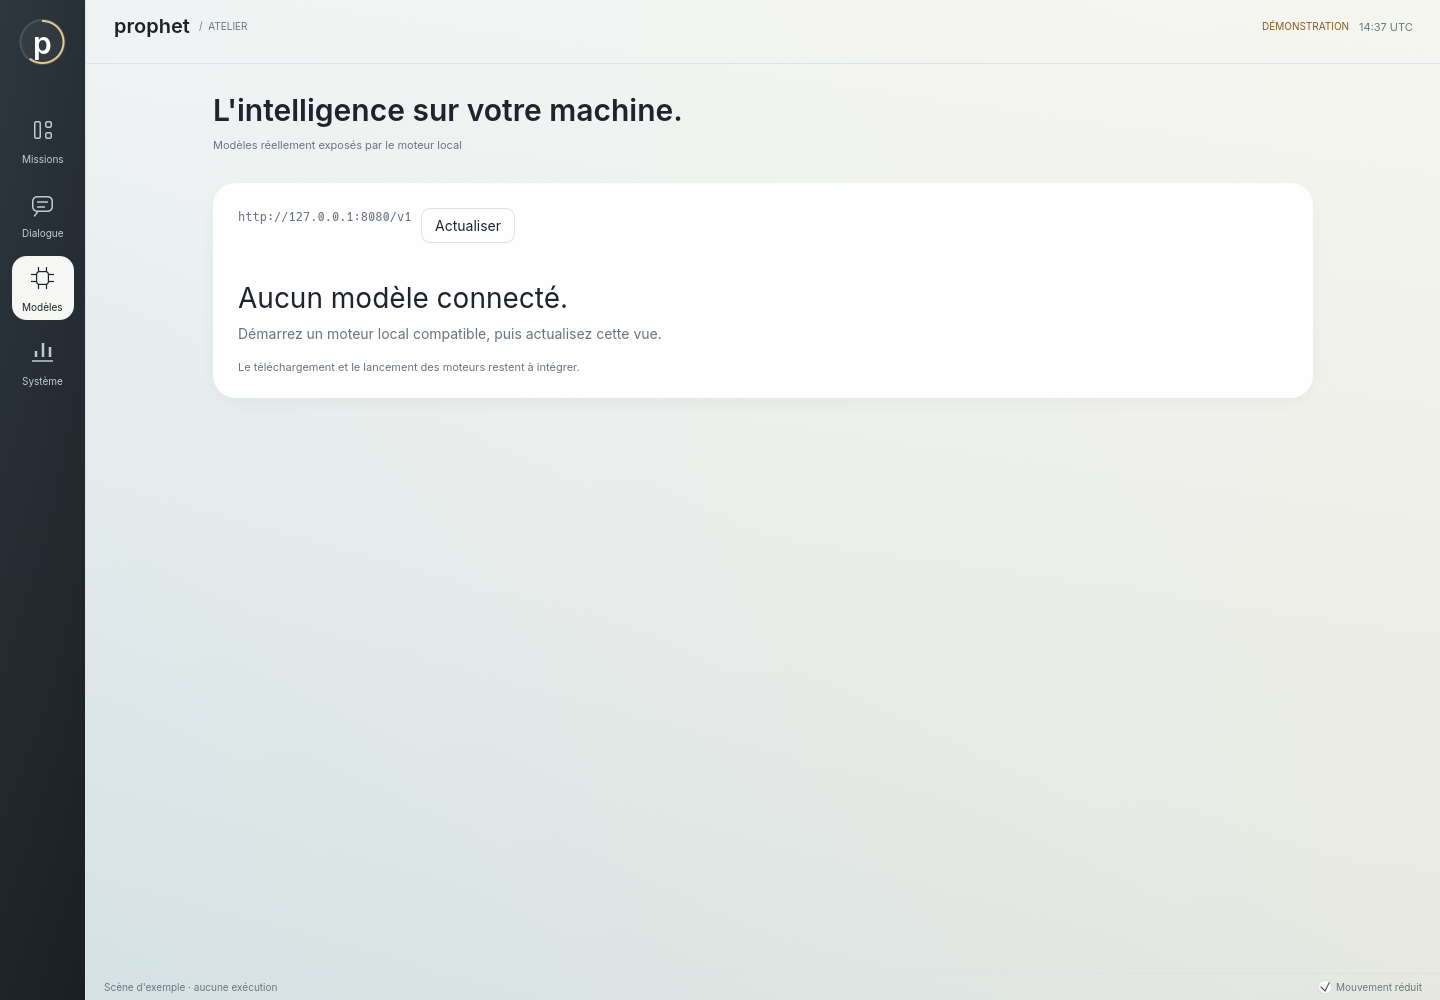
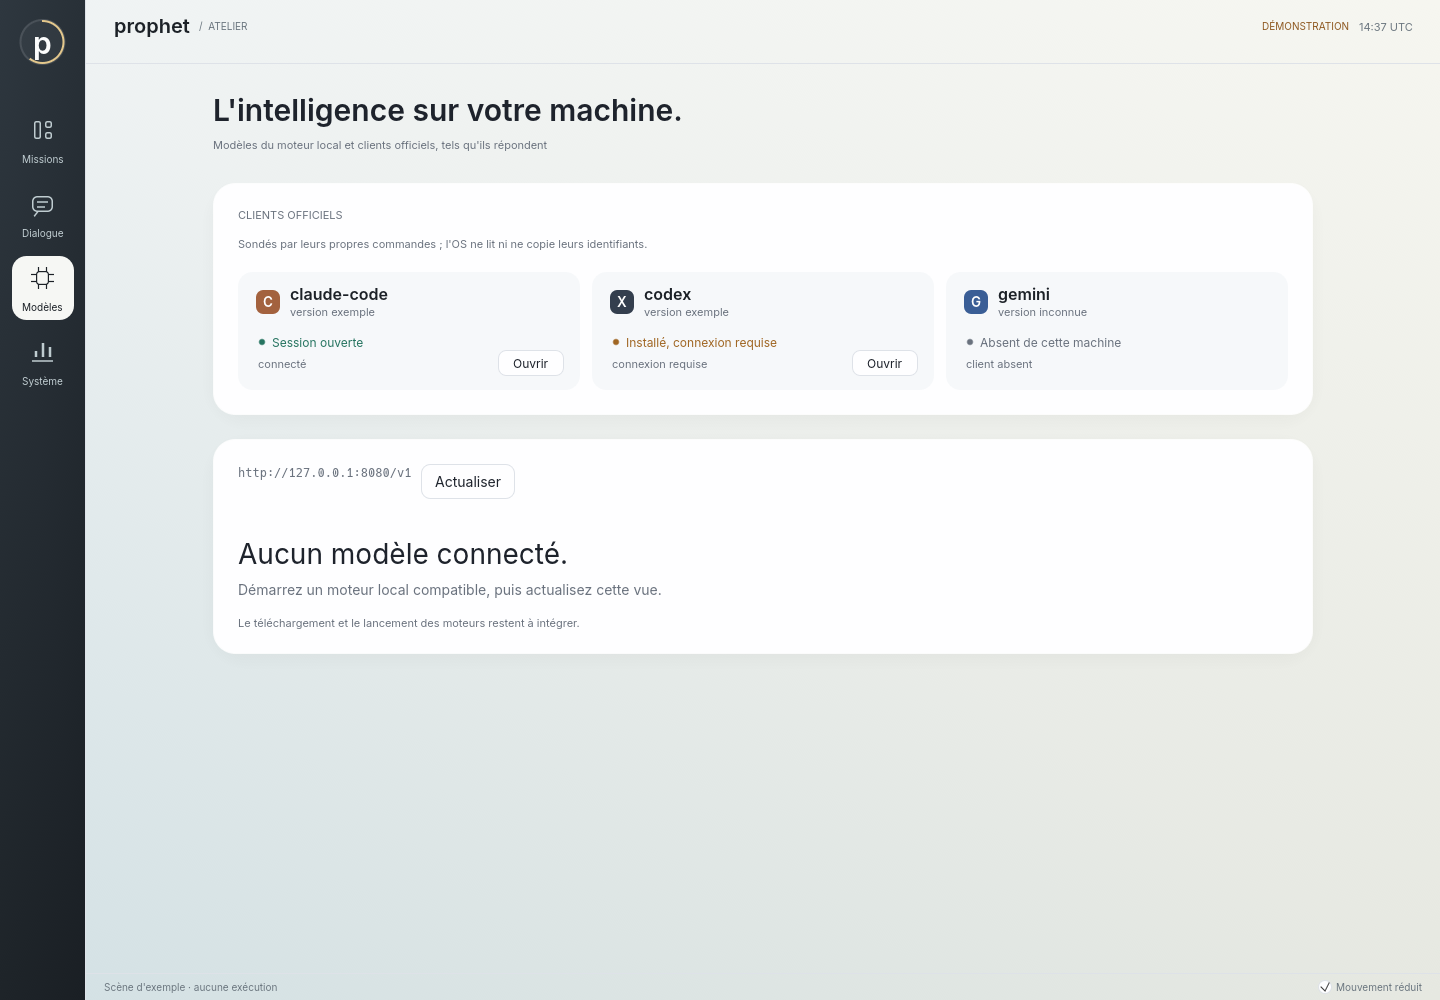
surface: les clients officiels sur la page Modèles
La page ne parlait que du moteur local. Elle sonde maintenant Claude Code, Codex et Gemini
par leurs propres commandes, comme `prophet provider ls`, et montre pour chacun sa version,
l'état de sa session et un bouton qui l'ouvre par le lanceur du bureau ; l'OS ne lit ni ne
copie leurs identifiants. Une scène de démonstration reçoit des cartes d'exemple, jamais une
vraie sonde.

Claude-Session: https://claude.ai/code/session_012JqexkdMtmijXULYm2y2Eu

diff --git a/crates/surface/src/supervision.rs b/crates/surface/src/supervision.rs
@@ -761,17 +761,145 @@ fn conversation(ui: &mut egui::Ui, atelier: &mut Atelier) {
     });
 }
 
+/// Lance une application du bureau par le lanceur de la session, s'il est installé.
+fn ouvrir_application(app: &str) {
+    let Some(launcher) = std::env::var_os("PATH").and_then(|path| {
+        std::env::split_paths(&path)
+            .map(|dir| dir.join("prophet-ouvrir"))
+            .find(|candidate| candidate.is_file())
+    }) else {
+        return;
+    };
+    let _ = std::process::Command::new(launcher)
+        .arg(app)
+        .stdin(std::process::Stdio::null())
+        .stdout(std::process::Stdio::null())
+        .stderr(std::process::Stdio::null())
+        .spawn();
+}
+
+fn clients_officiels(ui: &mut egui::Ui, atelier: &Atelier) {
+    petit(ui, "CLIENTS OFFICIELS");
+    ui.add_space(6.0);
+    petit(
+        ui,
+        "Sondés par leurs propres commandes ; l'OS ne lit ni ne copie leurs identifiants.",
+    );
+    ui.add_space(12.0);
+    if atelier.clients.is_empty() {
+        ui.horizontal(|ui| {
+            ui.spinner();
+            petit(ui, "Sonde des clients en cours…");
+        });
+        return;
+    }
+    let width = ui.available_width();
+    let gap = 12.0;
+    let tile = ((width - 2.0 * gap) / 3.0).max(150.0);
+    ui.horizontal(|ui| {
+        ui.spacing_mut().item_spacing.x = gap;
+        for card in &atelier.clients {
+            let (rect, _) = ui.allocate_exact_size(vec2(tile, 118.0), egui::Sense::hover());
+            let p = ui.painter();
+            p.rect_filled(rect, 14, crate::instruments::TUILE);
+            crate::instruments::monogramme(p, rect.min + vec2(30.0, 30.0), &card.driver, 24.0);
+            p.text(
+                rect.min + vec2(52.0, 22.0),
+                Align2::LEFT_CENTER,
+                &card.driver,
+                FontId::new(16.0, egui::FontFamily::Name("Inter600".into())),
+                crate::instruments::ENCRE,
+            );
+            p.text(
+                rect.min + vec2(52.0, 40.0),
+                Align2::LEFT_CENTER,
+                card.version
+                    .as_deref()
+                    .map_or_else(|| "version inconnue".to_owned(), |v| format!("version {v}")),
+                FontId::proportional(11.0),
+                DISCRET,
+            );
+            let (dot, label) = if card.connected {
+                (VERT, "Session ouverte")
+            } else if card.present {
+                (AMBRE, "Installé, connexion requise")
+            } else {
+                (DISCRET, "Absent de cette machine")
+            };
+            p.circle_filled(rect.min + vec2(24.0, 70.0), 3.0, dot);
+            p.text(
+                rect.min + vec2(34.0, 70.0),
+                Align2::LEFT_CENTER,
+                label,
+                FontId::proportional(12.0),
+                dot,
+            );
+            p.text(
+                rect.min + vec2(20.0, 92.0),
+                Align2::LEFT_CENTER,
+                &card.connection,
+                FontId::proportional(11.0),
+                DISCRET,
+            );
+            if card.present && matches!(card.driver.as_str(), "claude-code" | "codex") {
+                let button = egui::Rect::from_min_size(
+                    pos2(rect.right() - 82.0, rect.bottom() - 40.0),
+                    vec2(66.0, 26.0),
+                );
+                let response = ui.interact(
+                    button,
+                    egui::Id::new(format!("client-open-{}", card.driver)),
+                    egui::Sense::click(),
+                );
+                let p = ui.painter();
+                p.rect_filled(
+                    button,
+                    8,
+                    if response.hovered() {
+                        Color32::from_rgb(230, 234, 240)
+                    } else {
+                        BLANC
+                    },
+                );
+                p.rect_stroke(button, 8, Stroke::new(1.0, TRAIT), egui::StrokeKind::Inside);
+                p.text(
+                    button.center(),
+                    Align2::CENTER_CENTER,
+                    "Ouvrir",
+                    FontId::proportional(12.0),
+                    TEXTE,
+                );
+                if response
+                    .on_hover_cursor(egui::CursorIcon::PointingHand)
+                    .clicked()
+                {
+                    ouvrir_application(&card.driver);
+                }
+            }
+        }
+    });
+}
+
 fn modeles(ui: &mut egui::Ui, atelier: &mut Atelier) {
     ui.label(
         RichText::new("L'intelligence sur votre machine.")
             .size(30.0)
             .family(egui::FontFamily::Name("Inter600".into())),
     );
-    petit(ui, "Modèles réellement exposés par le moteur local");
+    petit(
+        ui,
+        "Modèles du moteur local et clients officiels, tels qu'ils répondent",
+    );
     ui.add_space(22.0);
+    atelier.sonder_les_clients(&ui.ctx().clone());
     egui::ScrollArea::vertical()
         .id_salt("bibliotheque")
         .show(ui, |ui| {
+            surface().show(ui, |ui| {
+                ui.set_width(ui.available_width());
+                clients_officiels(ui, atelier);
+            });
+            ui.add_space(14.0);
             surface().show(ui, |ui| {
                 ui.set_width(ui.available_width());
                 ui.horizontal_wrapped(|ui| {

diff --git a/crates/surface/src/atelier.rs b/crates/surface/src/atelier.rs
@@ -36,8 +36,24 @@ pub struct Tour {
     pub erreur: Option<String>,
 }
 
+/// Ce qu'un client officiel dit de lui-même, sondé sans jamais lire ses identifiants.
+#[derive(Debug, Clone, PartialEq, Eq)]
+pub struct ClientCard {
+    /// Nom du pilote : `claude-code`, `codex`, `gemini`.
+    pub driver: String,
+    /// Le programme est installé.
+    pub present: bool,
+    /// Version rendue par le programme, si sondée.
+    pub version: Option<String>,
+    /// État de connexion lisible, tel que le pilote le formule.
+    pub connection: String,
+    /// Une session est ouverte : le client peut travailler pour l'humain.
+    pub connected: bool,
+}
+
 enum Evenement {
     Modeles(Result<Vec<String>, String>),
+    Clients(Vec<ClientCard>),
     Fragment(u64, String),
     Fin(u64, Result<Completion, String>),
 }
@@ -66,6 +82,10 @@ pub struct Atelier {
     pub demonstration: bool,
     /// Base HTTP locale utilisée.
     pub endpoint: String,
+    /// Les clients officiels, tels que sondés ; vide tant que la sonde n'a pas répondu.
+    pub clients: Vec<ClientCard>,
+    /// Une sonde des clients est partie ou a déjà répondu.
+    pub clients_sondes: bool,
     tx: Sender<Evenement>,
     rx: Receiver<Evenement>,
     cancel: Option<watch::Sender<bool>>,
@@ -89,11 +109,75 @@ impl Atelier {
             mouvement_reduit: false,
             demonstration,
             endpoint,
+            clients: Vec::new(),
+            clients_sondes: false,
             tx,
             rx,
             cancel: None,
             numero: 0,
         }
+    }
+
+    /// Sonde une fois les clients officiels, en arrière-plan : version et état de session,
+    /// par leurs propres commandes, sans lire ni copier leurs fichiers d'identifiants.
+    ///
+    /// Une scène de démonstration reçoit des cartes d'exemple, jamais une vraie sonde.
+    pub fn sonder_les_clients(&mut self, ctx: &egui::Context) {
+        if self.clients_sondes {
+            return;
+        }
+        self.clients_sondes = true;
+        if self.demonstration {
+            self.clients = vec![
+                ClientCard {
+                    driver: "claude-code".into(),
+                    present: true,
+                    version: Some("exemple".into()),
+                    connection: "connecté".into(),
+                    connected: true,
+                },
+                ClientCard {
+                    driver: "codex".into(),
+                    present: true,
+                    version: Some("exemple".into()),
+                    connection: "connexion requise".into(),
+                    connected: false,
+                },
+                ClientCard {
+                    driver: "gemini".into(),
+                    present: false,
+                    version: None,
+                    connection: "client absent".into(),
+                    connected: false,
+                },
+            ];
+            return;
+        }
+        let tx = self.tx.clone();
+        let ctx = ctx.clone();
+        std::thread::spawn(move || {
+            use providers::official::{ClientProfile, ConnectionState, OfficialDriver};
+            let root = std::env::var_os("HOME")
+                .map(std::path::PathBuf::from)
+                .unwrap_or_else(|| std::path::PathBuf::from("/nonexistent"))
+                .join(".local/state/prophet");
+            let user = std::env::var("USER").unwrap_or_else(|_| "inconnu".to_owned());
+            let cards = ClientProfile::all()
+                .into_iter()
+                .map(|profile| {
+                    let diagnostic = OfficialDriver::new(profile, &root, &user).diagnostic();
+                    ClientCard {
+                        driver: diagnostic.driver,
+                        present: diagnostic.executable.is_some(),
+                        version: diagnostic.version,
+                        connection: diagnostic.connection.label().to_owned(),
+                        connected: diagnostic.connection == ConnectionState::Connected,
+                    }
+                })
+                .collect();
+            let _ = tx.send(Evenement::Clients(cards));
+            ctx.request_repaint();
+        });
     }
 
     /// Interroge le moteur en arrière-plan, avec un délai court pour une découverte.
@@ -141,6 +225,9 @@ impl Atelier {
                             self.erreur = Some(error);
                         }
                     }
+                }
+                Evenement::Clients(cards) => {
+                    self.clients = cards;
                 }
                 Evenement::Fragment(id, text) if id == self.numero => {
                     if let Some(tour) = self.tours.last_mut() {

diff --git a/docs/reports/instruments-2026-09-13.md b/docs/reports/instruments-2026-09-13.md
@@ -18,6 +18,13 @@ chiffres ; il dit maintenant l'essentiel par des formes, sans rien animer au rep
   restent visibles sans défiler.
 - Le module `instruments` fournit l'arc, l'anneau, le monogramme et la ligne d'instruments ;
   ses tests vérifient les monogrammes et la géométrie des arcs.
+- **Les Modèles disent aussi où en sont les clients officiels** : Claude Code, Codex et
+  Gemini sondés par leurs propres commandes (version, session ouverte ou connexion requise,
+  absent), sans lire ni copier leurs identifiants, chacun avec son monogramme et un bouton qui
+  l'ouvre par le lanceur du bureau. Une scène de démonstration reçoit des cartes d'exemple.
+
+  ![Modèles — clients officiels](../images/atelier-modeles-1440.png)
+
 - **Le Système montre l'échelle d'isolation** : trois niveaux, ceux que la machine offre en
   couleur et cochés, le premier inatteignable avec ce qui lui manque, et les missions reçues
   avec le monogramme de leur pilote.
